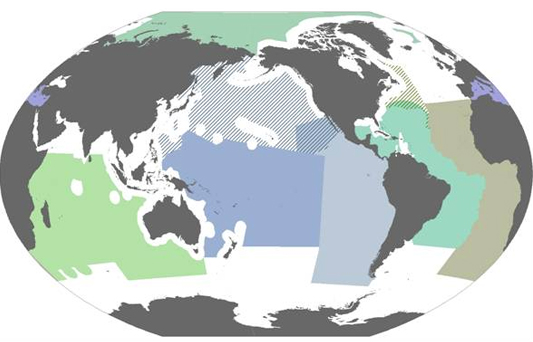
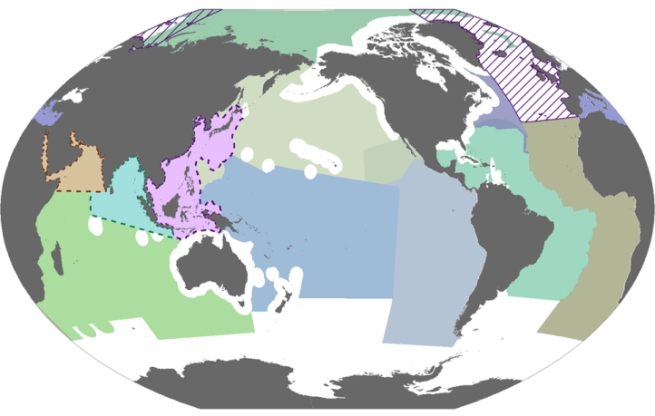
update the map image

diff --git a/app/views/about/about.html b/app/views/about/about.html
@@ -207,10 +207,7 @@
 
                 <div class="push5"></div>
 
-                <p class="important">The geographical scope of the regional
-                workshop areas organized by the CBD Secretariat<br>
-                to facilitate the description of areas meeting EBSA
-                criteria.</p>
+                <p class="important">The geographical scope of the regional workshop areas organized by the CBD Secretariat to facilitate the description of areas meeting the EBSA criteria. The areas with a dashed outline indicate workshops convened in 2015, the results of which will be considered by CBD COP 13 in December 2016. The area with the hatched lines indicates a parallel ongoing process in the North-East Atlantic.</p>
               </div>
             </div>
           </div><!-- Convention on Biological Diversity  -->
